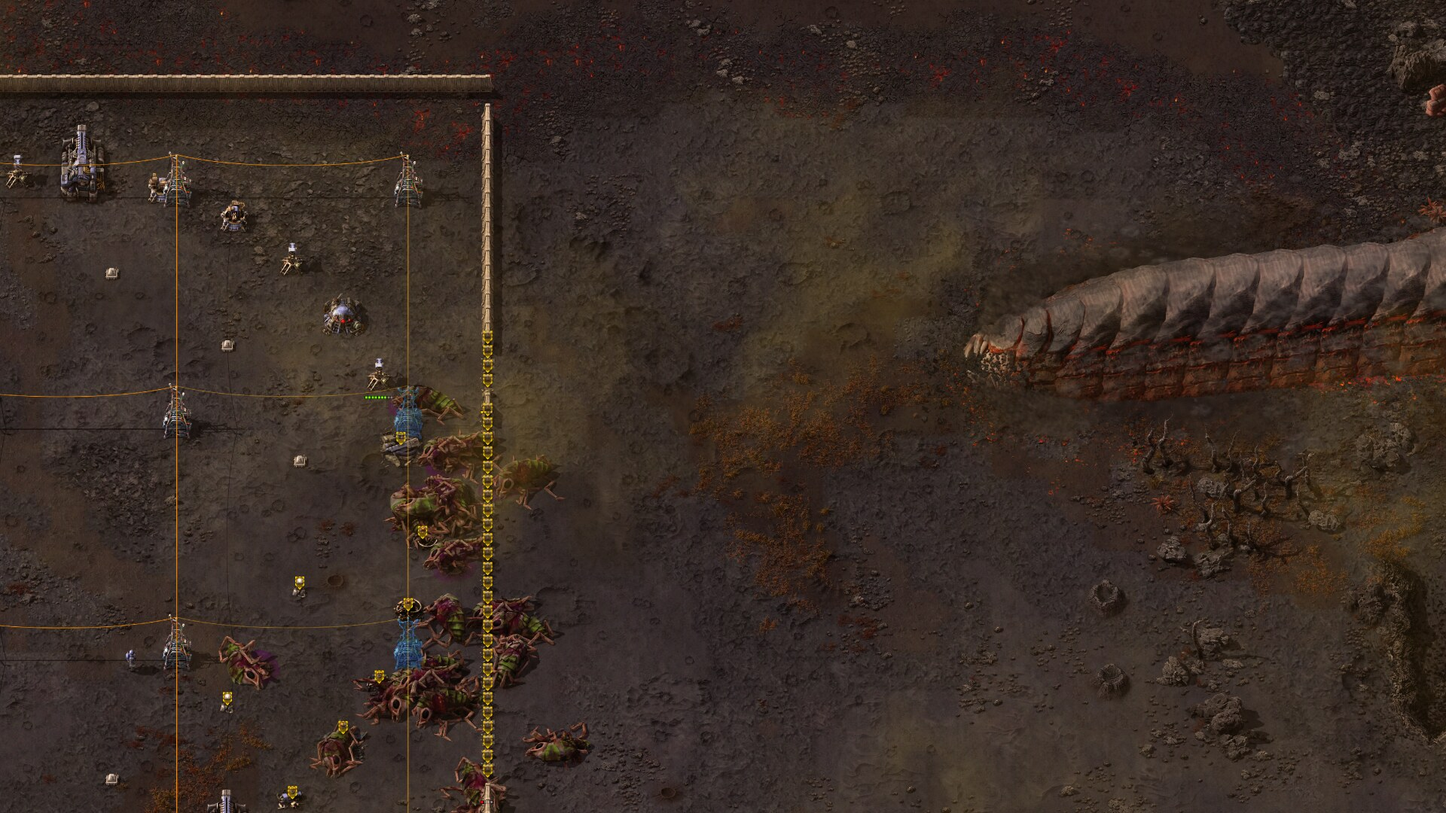
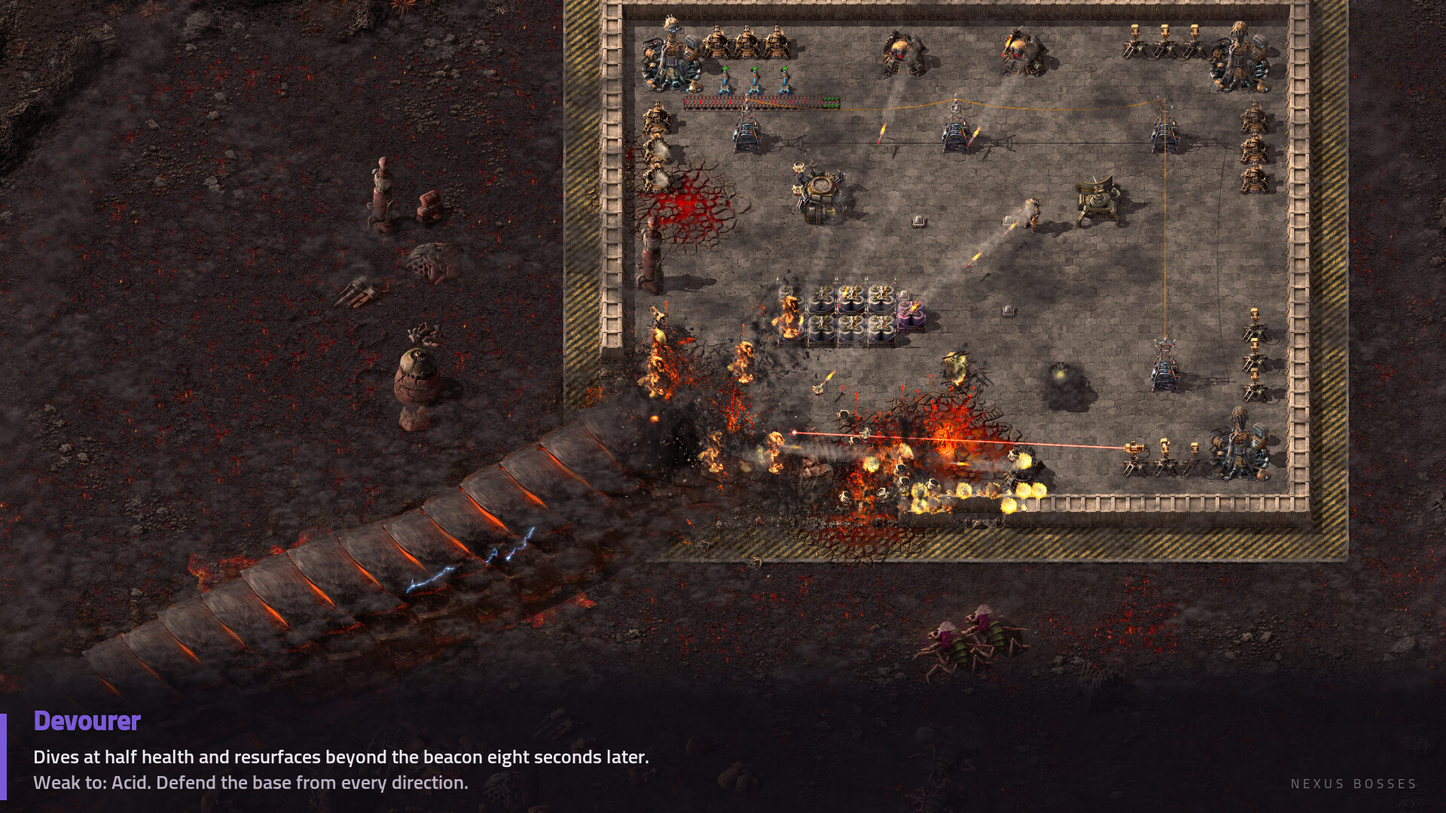
docs(portal): reshot gallery of 3.0: a framed shot of every boss in a fight, Codex, health bars, lair pylon, search and vault; the boss tables by stage and nine shots in the description

diff --git a/tools/portal/description.md b/tools/portal/description.md
@@ -1,6 +1,6 @@
-![](https://raw.githubusercontent.com/GreenTech-Solutions/nexus-bosses/master/tools/portal/images/00-fight.webp)
+![Devourer dives and resurfaces inside the rear battery](https://raw.githubusercontent.com/GreenTech-Solutions/nexus-bosses/master/tools/portal/images/00-fight.webp)
 
-Nine bosses can be summoned on Nexus, the last planet of [Nexus Extended Promethium Endgame](https://mods.factorio.com/mod/Nexus). Light a summon beacon, defend it from the precursor waves, then fight the boss and claim its trophy. With the warp-drive gate enabled, place the warp key made from all nine trophies in the vault reliquary to research Silence and raise the relic.
+Nine bosses can be summoned on Nexus, the last planet of [Nexus Extended Promethium Endgame](https://mods.factorio.com/mod/Nexus). Each one has a mechanic that your defense has to answer, and the fight shows it on the ground before it hits.
 
 ## How it works
 
@@ -10,44 +10,64 @@ Nine bosses can be summoned on Nexus, the last planet of [Nexus Extended Prometh
 
 ## The nine bosses
 
-After a boss log is found, its Codex page shows any weak damage types computed from its prototype resistances. The Colossus page lists the types for each variant.
+The exact numbers are in the Codex once the boss log is found.
 
-| Stage | Boss | Mechanic | Answer |
-| --- | --- | --- | --- |
-| Whisper | Arachnid Queen | At two-thirds and one-third health, she lays two nests. Each sends warriors every 20 seconds until destroyed. | Fire, Laser and Electric. |
-| Whisper | Watcher | Six electric drones escort it and return in waves. Every 12 seconds, if any drone lives, it marks a player building within 60 tiles and fires four rockets after a four-second warning. | Laser and Electric. |
-| Whisper | Rogue Spidertron | It chooses among the 20 nearest power poles within 200 tiles, targeting the one with the most player buildings in its EMP radius. At 25 tiles it marks a 12-tile radius for three seconds, then disables buildings there for 15 seconds. | Poison. |
-| Chorus | Twin Maws | While both maws live, each heals 0.3 % of its maximum health per second. If one dies while the other lives, it rises with half health after 20 seconds. | Fire. |
-| Chorus | Colossus | One of six variants arrives, each with a different attack. The armoured variant absorbs damage for 10 seconds every 40 seconds; damage of its weak types breaks the shell after it absorbs 5 % of its maximum health. | The beacon names the variant; weak types are Physical (fire cluster and fire spray), Explosion (electric shock), Laser and Electric (armour shield), Acid and Poison (brood), or Fire (acid spray). |
-| Chorus | Plague Hulk | Ten infected turrets guard it. Every 120 seconds it sends up to seven sortie units; when the squad first comes within 30 tiles of player turrets, a three-second warning marks a 15-tile circle where turrets stop for up to 15 seconds. | Impact, Acid, Poison, Explosion, Laser and Electric. |
-| Convergence | Storm Guardian | After 60 seconds without a Nexus-Threat storm, it calls its own 40-second storm / 40-second calm cycle. During storms it heals up to 0.5 % of its health per second and calls lightning around itself. | Impact and Explosion. |
-| Convergence | Devourer | It dives at half health, or at 66 % and 33 % in a lair, and resurfaces eight seconds later beyond the beacon. | Acid. |
-| Convergence | Last Commander | A four-second circle marks where six soldiers land every 45 seconds. Below 66 % health, it marks a nearby building for four seconds before firing four rockets every 12 seconds; below 33 %, soldiers land beyond the beacon. Its atomic rocket targets the nearest turret within 60 tiles every 90 seconds, or the beacon if no turret is in range; a lair pylon can disable it. | No weak damage types; the Codex shows none. |
+### Whisper
 
-![Queen nest telegraphs](https://raw.githubusercontent.com/GreenTech-Solutions/nexus-bosses/master/tools/portal/images/11-telegraph-queen.jpg)
+| Boss | Mechanic | Weak to |
+| --- | --- | --- |
+| Arachnid Queen | Lays two nests at two thirds and one third of her health; the nests send warriors until destroyed. | Fire, Laser, Electric |
+| Watcher | While one of its drones lives, it marks a building and fires rockets at it. | Laser, Electric |
+| Rogue Spidertron | Marks the power pole with the most buildings around it, then disables everything in the circle with an EMP. | Poison |
 
-![Colossus variant and weakness](https://raw.githubusercontent.com/GreenTech-Solutions/nexus-bosses/master/tools/portal/images/12-colossus-variant.jpg)
+![Arachnid Queen at the wall with two nest marks](https://raw.githubusercontent.com/GreenTech-Solutions/nexus-bosses/master/tools/portal/images/03-queen.jpg)
+
+### Chorus
+
+| Boss | Mechanic | Weak to |
+| --- | --- | --- |
+| Twin Maws | While both maws live they heal each other; a fallen maw rises again unless the second one dies quickly. | Fire |
+| Colossus | One of six variants arrives, each with its own attack. | Depends on the variant |
+| Plague Hulk | Spores follow its sortie squad and stop the turrets in a marked circle. | Impact, Acid, Poison, Explosion, Laser, Electric |
+
+![Three Colossus variants: fire cluster, armour shield, electric shock](https://raw.githubusercontent.com/GreenTech-Solutions/nexus-bosses/master/tools/portal/images/06-colossus.jpg)
+
+### Convergence
+
+| Boss | Mechanic | Weak to |
+| --- | --- | --- |
+| Storm Guardian | Heals during a storm and calls lightning around itself; without a storm it calls its own. | Impact, Explosion |
+| Devourer | Dives at half health and resurfaces beyond the beacon. | Acid |
+| Last Commander | Drops soldiers at marked spots, marks buildings for rocket strikes and fires an atomic rocket at the nearest turret. | None |
+
+![Last Commander atomic rocket mark over the base](https://raw.githubusercontent.com/GreenTech-Solutions/nexus-bosses/master/tools/portal/images/10-last-commander.jpg)
+
+![Devourer breaks through the wall](https://raw.githubusercontent.com/GreenTech-Solutions/nexus-bosses/master/tools/portal/images/01-devourer.jpg)
+
+## During the fight
+
+The health bar shows the stage, the phase, the next attack with its countdown, and the weak and resistant damage types of the boss. The Colossus bar names the variant.
+
+![Health bars of the Queen, Rogue Spidertron and armoured Colossus](https://raw.githubusercontent.com/GreenTech-Solutions/nexus-bosses/master/tools/portal/images/11-health-bar.jpg)
 
 ## Between the fights
 
 - **Expedition logs.** Wrecks contain boss logs. Finding a log opens its mechanic, weak and resistant damage types, and answer in the Codex. The signal detector points to the nearest unfound wreck; each victory marks another wreck on the map.
 
-  ![Boss emblems and trophies](https://raw.githubusercontent.com/GreenTech-Solutions/nexus-bosses/master/tools/portal/images/07-emblems-and-trophies.png)
+  ![Codex page of the Arachnid Queen](https://raw.githubusercontent.com/GreenTech-Solutions/nexus-bosses/master/tools/portal/images/02-codex.jpg)
 
-  ![Health bar with phase and weakness](https://raw.githubusercontent.com/GreenTech-Solutions/nexus-bosses/master/tools/portal/images/03-health-bar.jpg)
-
-  ![Signal detector sector](https://raw.githubusercontent.com/GreenTech-Solutions/nexus-bosses/master/tools/portal/images/13-detector-sector.jpg)
+  ![Signal detector sector on the map](https://raw.githubusercontent.com/GreenTech-Solutions/nexus-bosses/master/tools/portal/images/13-search.jpg)
 
 - **Lairs and guards.** Two direction finders set to the same boss narrow their bearings until the crossing marks its lair. On the first approach to an unfound wreck or found lair, precursors are alerted when a player comes within 40 tiles; a warning circle appears and the group emerges three seconds later. Each point triggers once. A lair fight increases the boss's main mechanic frequency and gives an extra trophy and loot.
 - **Pylons.** An uncommon-or-better trophy of the lair's boss repairs its pylon. The pylon weakens that boss's main mechanic by 25 %, 50 %, 75 % or 100 %, according to trophy quality. When it weakens a Last Commander lair fight at any quality, the atomic rocket is disabled.
 
-  ![Pylon of suppression](https://raw.githubusercontent.com/GreenTech-Solutions/nexus-bosses/master/tools/portal/images/10-pylon-of-suppression.jpg)
+  ![Last Commander in its lair under a repaired pylon](https://raw.githubusercontent.com/GreenTech-Solutions/nexus-bosses/master/tools/portal/images/12-lair-pylon.jpg)
 
 - **Vault.** The vault becomes available after all nine bosses are defeated. Exploration and fights reveal the four glyphs for its code. With the warp-drive gate enabled, place the warp key made from the nine trophies in the reliquary; it is consumed to research Silence, and the relic rises in the vault. The relic gives research productivity +10 %.
 
-  ![Vault reliquary and warp key](https://raw.githubusercontent.com/GreenTech-Solutions/nexus-bosses/master/tools/portal/images/14-vault-reliquary.jpg)
+  ![Vault reliquary](https://raw.githubusercontent.com/GreenTech-Solutions/nexus-bosses/master/tools/portal/images/14-vault.jpg)
 
-- **Hallucinations.** At night on Nexus, a player with no force buildings within 64 tiles may see a phantom, receive a whisper or false alert, or see darkened screen edges. The average interval is 10 minutes in Whisper and 5 minutes in Chorus and Convergence, with ±50 % variation. Rare mode halves the frequency; the player setting can also turn hallucinations off. Clock-Interlude plays for a phantom or false alarm.
+- **Hallucinations.** At night on Nexus, far from your buildings, a player may see a phantom or get a false alert. The player setting makes them rare or turns them off.
 
 ## FAQ
 
